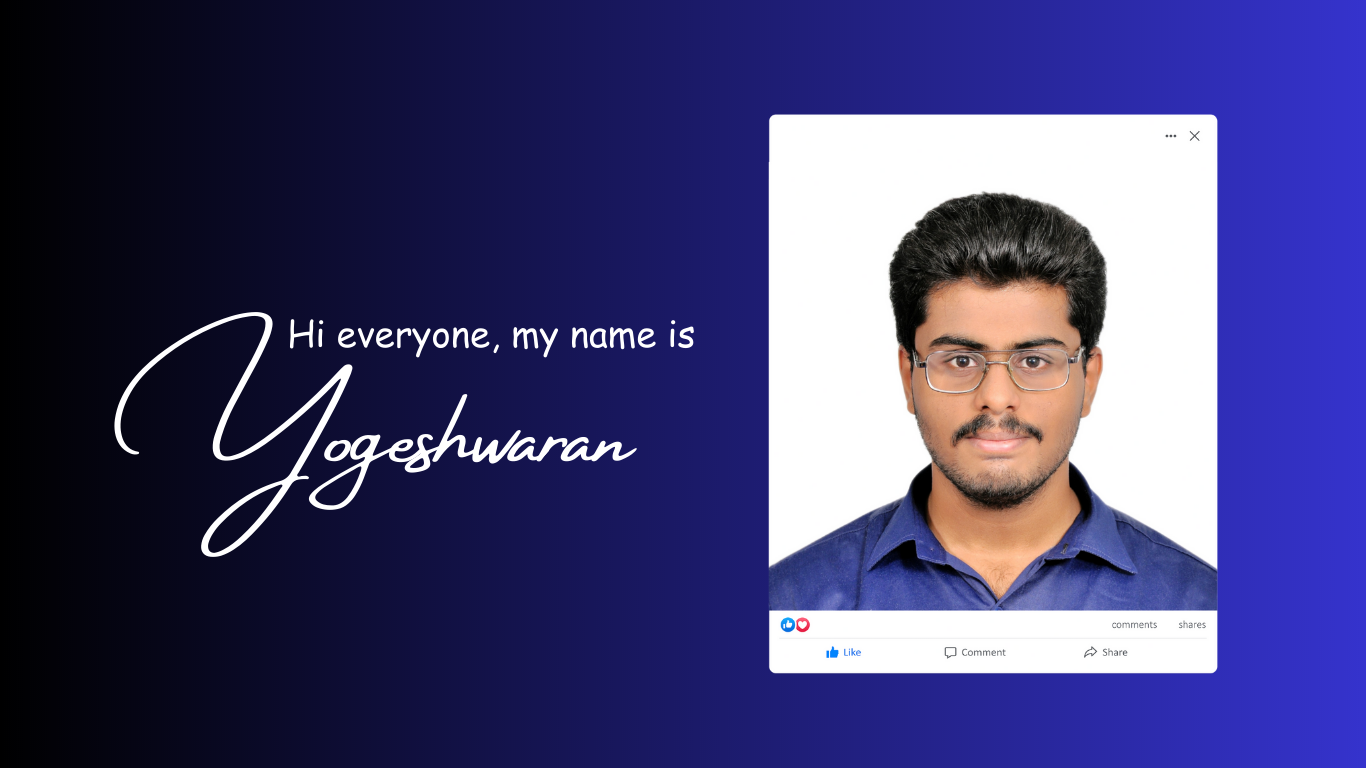
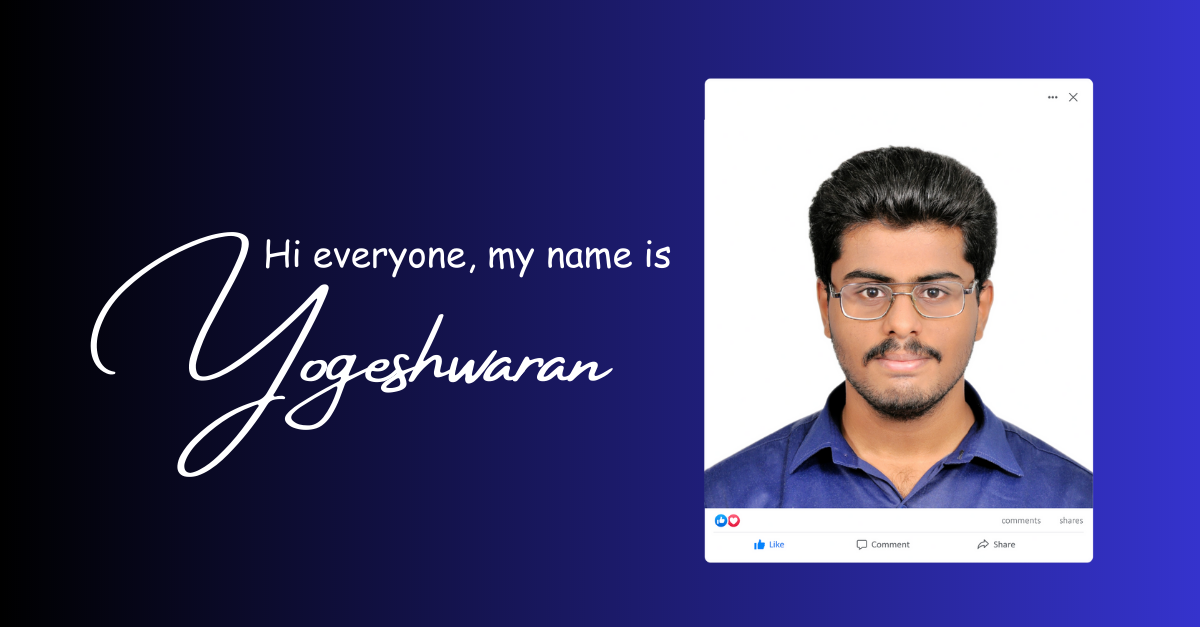
updated

Changed region(s): [[0.0617, 0.1212, 0.925, 0.9091]]

diff --git a/portfolio/main.html b/portfolio/main.html
@@ -6,6 +6,13 @@
   <meta http-equiv="X-UA-Compatible" content="IE=edge">
   <meta name="viewport" content="width=device-width, initial-scale=1.0">
   <title>E-Portfolio Yogeshwaran</title>
+  <meta property="og:title" content="My Portfolio">
+    <meta property="og:description" content="personal website">
+    <meta property="og:image" content="./assets/images/yogeshwaran.png">
+    <meta property="og:image:secure_url" content="./assets/images/yogeshwaran.png">
+    <meta property="og:image:type" content="image/png">
+    <meta property="og:image:width" content="1200">
+    <meta property="og:image:height" content="630">
 
   <!--
     - favicon
@@ -17,13 +24,8 @@
   -->
   <link rel="stylesheet" href="./assets/css/style.css">
 
-  <!--
-    - custom thumbnail image
-  -->
 
-  <meta property="og:image" content="yogeshwaran.png">
-  <meta property="og:image:width" content="1366">
-  <meta property="og:image:height" content="768">
+
 
   <!--
     - google font link
